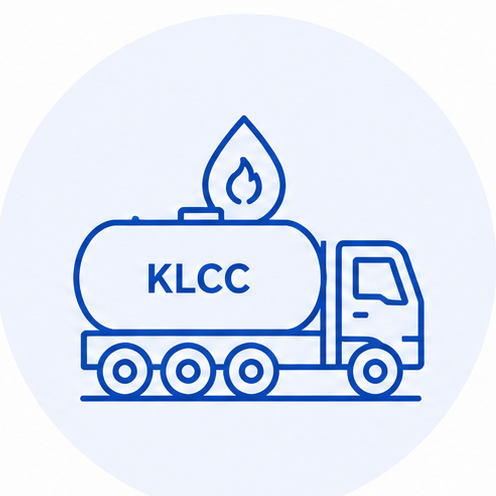
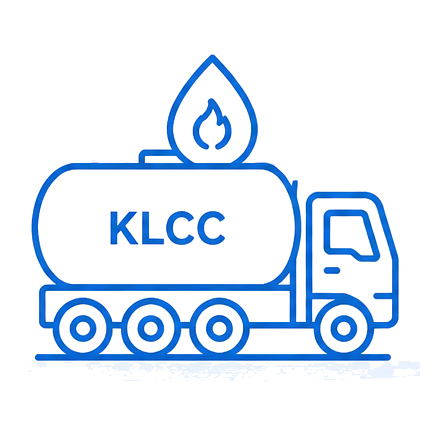
Total Solution 카드 아이콘을 원형 배경 없는 새 일러스트(가스 공급 연계·용기검사 연계) 버전으로 교체. 이미지 캐시버스트 bump(20260830)

Changed region(s): [[0.0598, 0.1195, 0.9264, 0.8368]]

diff --git a/products-construction.html b/products-construction.html
@@ -249,13 +249,13 @@
           </div>
           <div class="cards cards--2">
           <article class="feature">
-            <span class="feature__ic feature__ic--img" aria-hidden="true"><img src="assets/images/site/construction/link-gas.png?v=20260829" alt="" loading="lazy"></span>
+            <span class="feature__ic feature__ic--img" aria-hidden="true"><img src="assets/images/site/construction/link-gas.png?v=20260830" alt="" loading="lazy"></span>
             <h3 class="feature__title">가스 공급 연계</h3>
             <p class="feature__text">고품질 가스의 안정적인 공급을 지원합니다.</p>
             <a class="pgcard__more" href="products-gas.html">가스제품 보기</a>
           </article>
           <article class="feature">
-            <span class="feature__ic feature__ic--img" aria-hidden="true"><img src="assets/images/site/construction/link-inspect.png?v=20260829" alt="" loading="lazy"></span>
+            <span class="feature__ic feature__ic--img" aria-hidden="true"><img src="assets/images/site/construction/link-inspect.png?v=20260830" alt="" loading="lazy"></span>
             <h3 class="feature__title">용기검사 연계</h3>
             <p class="feature__text">전문검사기관과 연계하여 용기검사를 지원합니다.</p>
             <a class="pgcard__more" href="products-supply.html">용기검사 보기</a>
